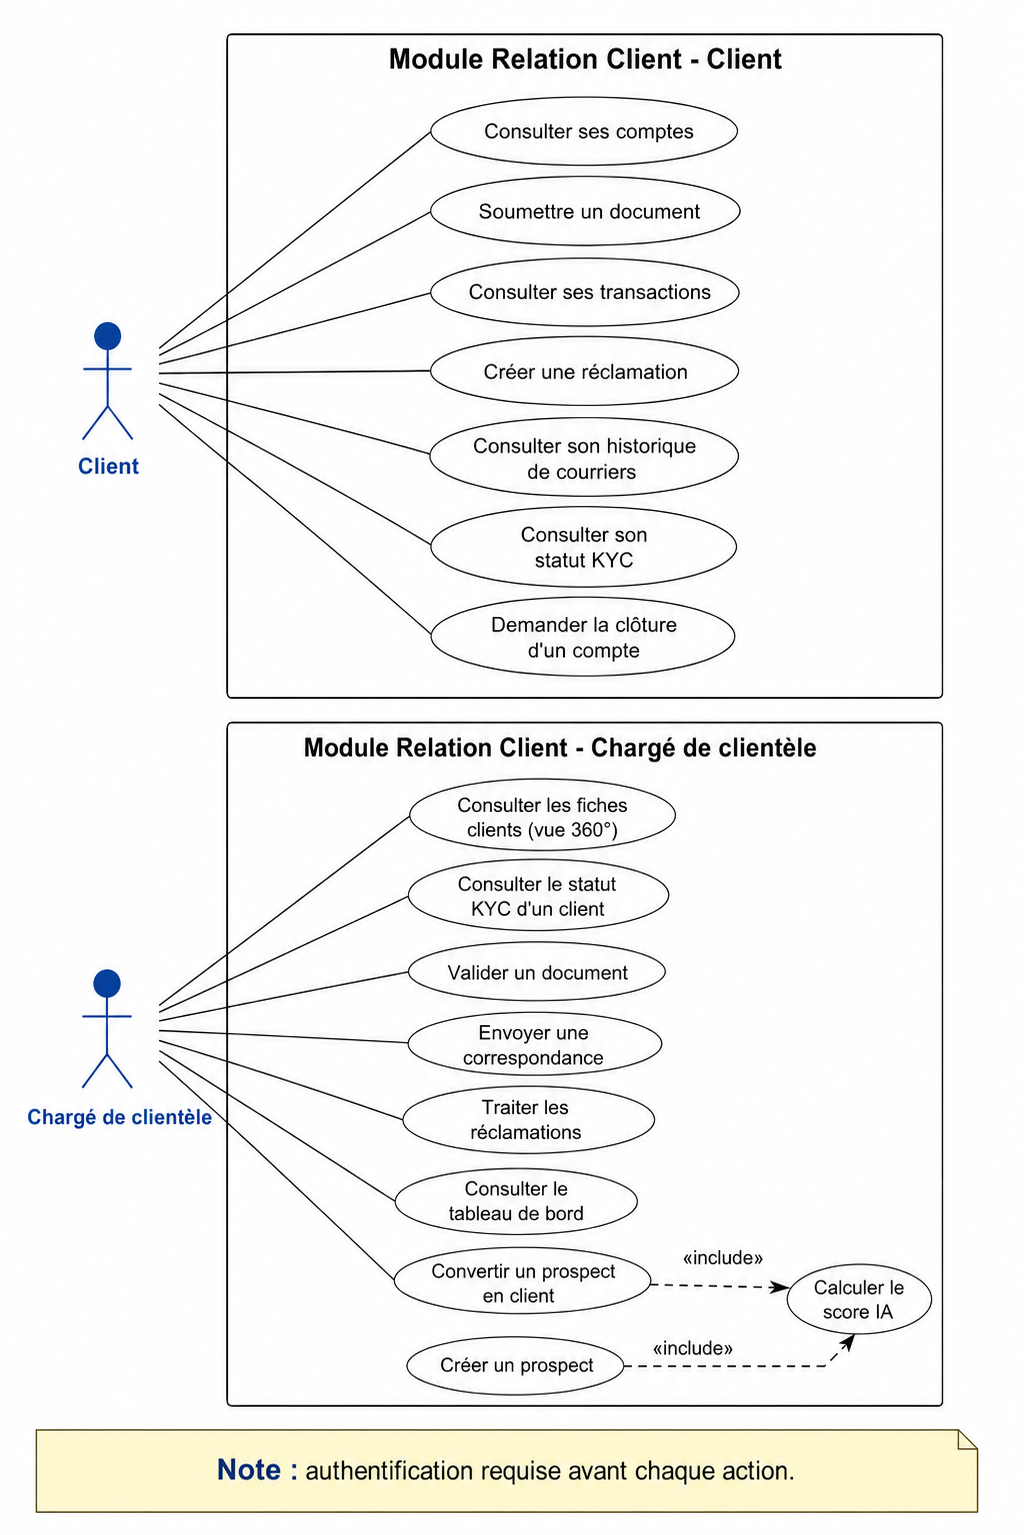
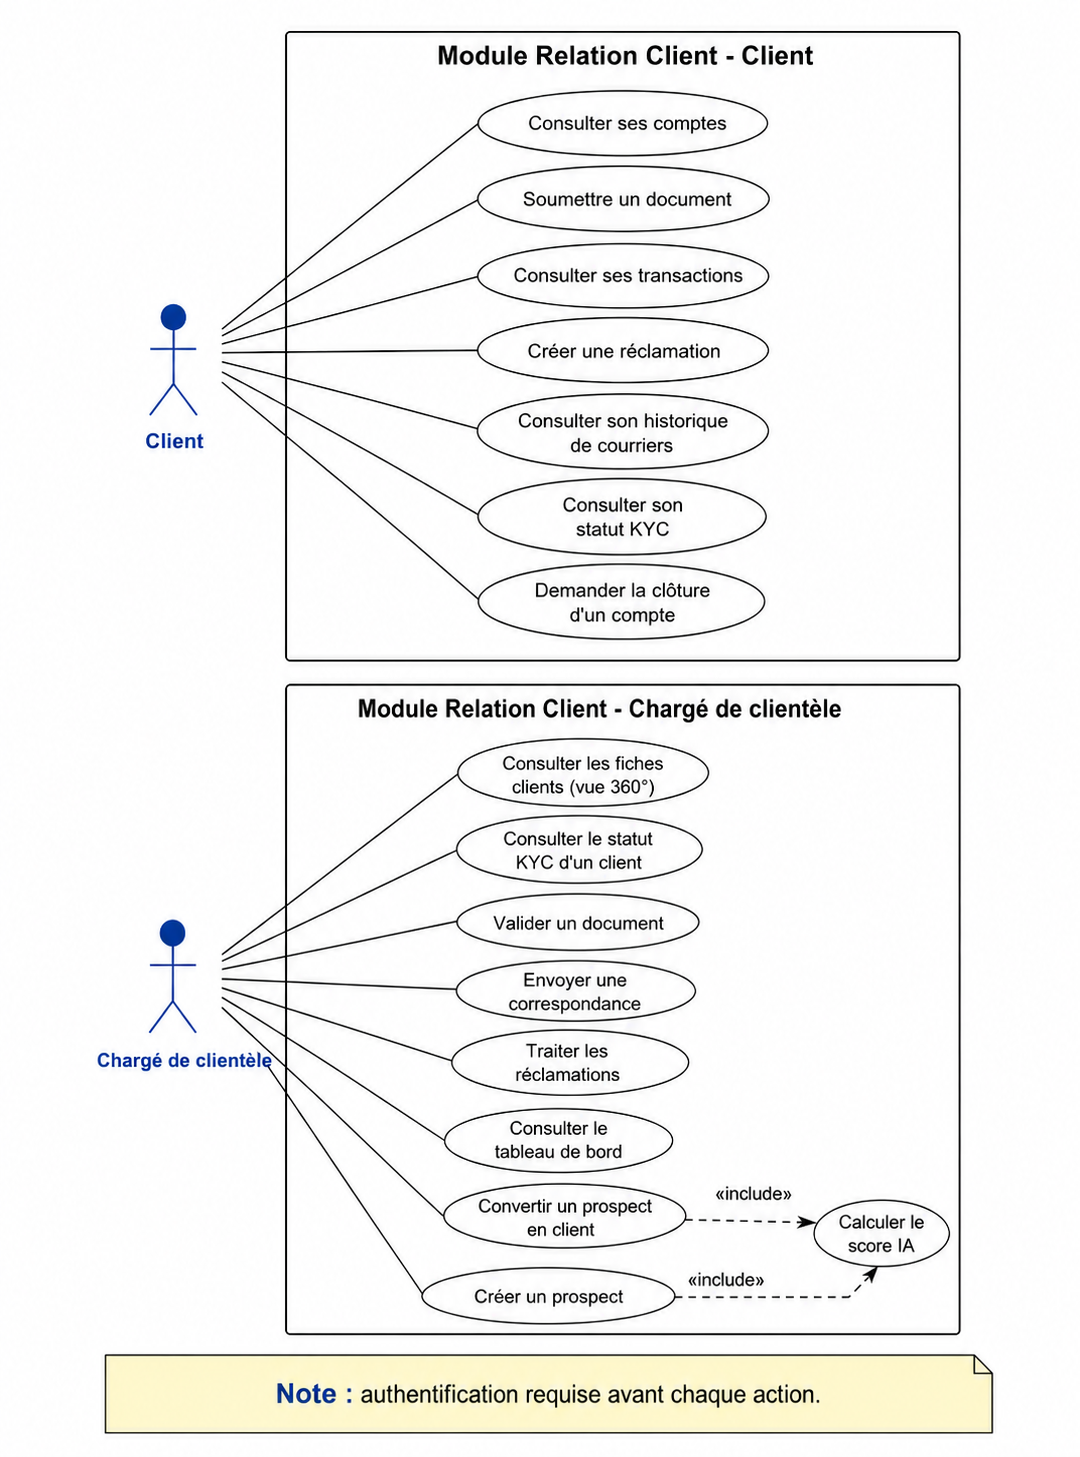
Mettre a jour le memoire final

diff --git a/contenu/conclusion-generale.tex b/contenu/conclusion-generale.tex
@@ -4,40 +4,41 @@
 \markboth{Conclusion générale}{Conclusion générale}
 
 Ce mémoire avait pour objectif de concevoir et de réaliser une solution bancaire
-intelligente capable de rapprocher la gestion de la relation client et les services
-d'investissement. À travers la plateforme \textbf{I-SIB}, le travail réalisé a
-cherché à proposer une solution modulaire, sécurisée et évolutive, adaptée aux
-besoins d'un environnement bancaire moderne.
+intelligente centrée sur deux volets complémentaires : la gestion de la relation
+client et les services d'investissement. À travers la plateforme \textbf{I-SIB},
+le travail mené a permis de proposer une base applicative modulaire, sécurisée
+et évolutive, adaptée à un contexte bancaire où la centralisation des
+informations et la continuité des parcours deviennent essentielles.
 
-La démarche adoptée a permis d'analyser les besoins, de définir les exigences
-fonctionnelles et non fonctionnelles, puis de concevoir une architecture fondée
-sur des microservices, une passerelle API, des services métier spécialisés et des
-mécanismes de sécurité et de traçabilité. Afin de garder une étude maîtrisée,
-l'analyse détaillée s'est concentrée sur deux fonctionnalités représentatives :
-la gestion des prospects et le passage d'ordres.
+La démarche suivie a d'abord consisté à analyser les besoins, à identifier les
+acteurs et à préciser les exigences fonctionnelles et non fonctionnelles. Elle
+a ensuite conduit à la conception d'une architecture microservices organisée
+autour d'une passerelle API, de services métier spécialisés, de composants de
+sécurité et de mécanismes de traçabilité. Pour garder une étude lisible et
+maîtrisée, la conception détaillée s'est concentrée sur deux scénarios
+représentatifs : la création d'un prospect et le passage d'ordres.
 
-Les résultats obtenus mettent en évidence une couverture fonctionnelle du
-périmètre réalisé. Le module Relation Client centralise les informations client, facilite
-le suivi des prospects, intègre le scoring et la détection du churn. Le module
-SGI permet la consultation des portefeuilles, le suivi des cotations BRVM,
-l'analyse des titres et le suivi des opérations d'investissement. Ces résultats
-montrent l'intérêt d'une plateforme unifiée pour améliorer la continuité entre
-les parcours commerciaux, bancaires et d'investissement. La plateforme réalisée
-a également été déployée dans un environnement de validation sur un VPS
-AlmaLinux, où les évolutions peuvent être testées progressivement après
-redéploiement.
+Les résultats obtenus couvrent le périmètre fonctionnel réalisé. Le module
+Relation Client permet de centraliser les informations utiles au suivi
+commercial, de gérer les prospects et d'exploiter des indicateurs d'aide au
+suivi, notamment autour du scoring et du risque de départ. Le module SGI permet
+la consultation des portefeuilles, des instruments BRVM et des informations
+nécessaires à la préparation des opérations d'investissement. La plateforme a
+également été déployée dans un environnement de validation sur un VPS
+AlmaLinux, avec une organisation basée sur Docker et Docker Compose afin de
+tester progressivement les services réalisés.
 
-Certaines limites demeurent cependant : les cotations BRVM restent simulées, les
-modèles d'IA devront être améliorés avec des données réelles et les connexions
-avec tous les modules bancaires ne sont pas finalisées. Le passage de
-l'environnement de validation à la production nécessitera également davantage
-de tests, un audit de sécurité approfondi et une observabilité plus complète.
-Les perspectives portent donc sur l'intégration de flux de marché officiels,
-l'industrialisation de la production, la haute disponibilité et l'ouverture
-future vers le mobile ou le multilingue.
+Le travail réalisé reste toutefois à consolider avant une exploitation en
+production. Les données de marché utilisées pour les cotations BRVM sont encore
+simulées, les modèles d'intelligence artificielle devront être évalués avec des
+données réelles, et certaines connexions avec les autres modules bancaires
+restent à finaliser. Le passage en production nécessitera également des tests
+complémentaires, un audit de sécurité, une supervision renforcée, des
+sauvegardes et une stratégie de reprise clairement définie.
 
-En définitive, ce projet a permis de démontrer la faisabilité d'une plateforme
-unifiée combinant relation client, services d'investissement, architecture
-modulaire et intelligence artificielle. Il constitue une base solide pour la
-poursuite du développement d'I-SIB et son adaptation progressive aux besoins
-réels des institutions financières.
+En définitive, ce projet montre la faisabilité d'une plateforme bancaire
+unifiée associant relation client, services d'investissement, architecture
+modulaire et premiers mécanismes d'aide intelligente. I-SIB constitue ainsi une
+base de travail solide, appelée à évoluer progressivement vers une solution plus
+complète, mieux intégrée aux données réelles et adaptée aux besoins opérationnels
+des institutions financières.

diff --git a/contenu/chapitre-3.tex b/contenu/chapitre-3.tex
@@ -10,7 +10,7 @@
 
 Ce chapitre traduit les besoins identifiés au chapitre précédent en une solution
 structurée et implémentable. Il présente d'abord les principes retenus pour organiser
-la plateforme, puis l'architecture fonctionnelle d'I-SIB, les choix technologiques,
+la plateforme, puis l'architecture logique d'I-SIB, les choix technologiques,
 l'architecture technique, la conception détaillée de la fonctionnalité Gestion des
 prospects et enfin l'architecture de déploiement.
 
@@ -55,24 +55,24 @@ spécialisés qui communiquent entre eux de manière contrôlée \cite{fowler_mi
 
 La solution I-SIB repose sur une architecture microservices organisée en plusieurs couches. Les utilisateurs accèdent à la plateforme via deux interfaces web : un back-office pour les employés et un front-office pour les clients. Les requêtes passent par une passerelle API chargée du routage et du contrôle des accès, en lien avec le service d'authentification.
 
-L’architecture regroupe les interfaces utilisateur, les services métier ainsi que les composants techniques assurant la sécurité, le routage, le stockage des données, le cache, la messagerie et la traçabilité. La figure~\ref{fig:architecture_fonctionnelle} présente l’organisation fonctionnelle de ces composants et leurs interactions.
+L’architecture regroupe les interfaces utilisateur, les services métier ainsi que les composants techniques assurant la sécurité, le routage, le stockage des données, le cache, la messagerie et la traçabilité. La figure~\ref{fig:architecture_logique} présente l’organisation fonctionnelle de ces composants et leurs interactions.
 
 
 
 \begin{figure}[H]
     \centering
     \MemoireFigureLarge{images/contenu/chapitre-3/architecture_fonctionnelle.png}
-    \caption{Architecture fonctionnelle de la plateforme I-SIB}
-    \label{fig:architecture_fonctionnelle}
+    \caption{Architecture logique de la plateforme I-SIB}
+    \label{fig:architecture_logique}
 \end{figure}
 
-Comme le montre la figure~\ref{fig:architecture_fonctionnelle}, la passerelle API joue
+Comme le montre la figure~\ref{fig:architecture_logique}, la passerelle API joue
 un rôle central : elle constitue la frontière entre les applications web et les
 microservices internes. Les services métier restent ainsi isolés de tout accès
 direct depuis l'extérieur.
 \subsection{Description des blocs}
 
-La figure~\ref{fig:architecture_fonctionnelle} est organisée autour de plusieurs blocs
+La figure~\ref{fig:architecture_logique} est organisée autour de plusieurs blocs
 complémentaires, chacun correspondant à une responsabilité précise dans la plateforme.
 
 \begin{description}
@@ -121,7 +121,7 @@ complémentaires, chacun correspondant à une responsabilité précise dans la p
 
 \section{Choix des outils et technologies}
 
-Les choix technologiques traduisent l'architecture fonctionnelle en composants
+Les choix technologiques traduisent l'architecture logique en composants
 réalisables. Ils ont été retenus en fonction des responsabilités à couvrir :
 interfaces web, services backend, sécurité, routage, persistance des données,
 messagerie, cache, stockage documentaire, traçabilité et déploiement. Cette section
@@ -185,7 +185,7 @@ et les composants applicatifs.
 % ─────────────────────────────────────────────────
 \section{Conception détaillée}
 
-Après la présentation des architectures fonctionnelle et technique, cette section détaille
+Après la présentation des architectures logique et technique, cette section détaille
 le fonctionnement interne d'un scénario représentatif du module Relation Client :
 \textbf{la création d'un prospect}. Ce choix permet d'illustrer, de manière ciblée,
 le cheminement d'une demande depuis l'interface back-office jusqu'aux services backend,
@@ -269,11 +269,10 @@ Compose, les réseaux de conteneurs et le principe de redéploiement progressif.
 
 Le déploiement est structuré en quatre ensembles : \texttt{infra},
 \texttt{core}, \texttt{module} et \texttt{office}. Ce découpage reste aligné
-avec Docker Compose en local \cite{docker_compose_docs}, tandis que l'exécution
-sur le VPS s'appuie sur Podman \cite{podman_docs} et Podman Compose
-\cite{podman_compose_docs}. Les quatre ensembles isolent respectivement les
-services communs, les référentiels, les modules métier et les interfaces
-utilisateur.
+avec Docker \cite{docker_docs} et Docker Compose \cite{docker_compose_docs},
+aussi bien en local que sur le VPS AlmaLinux utilisé pour la validation. Les
+quatre ensembles isolent respectivement les services communs, les référentiels,
+les modules métier et les interfaces utilisateur.
 
 Deux réseaux organisent les échanges. Le réseau \texttt{sib\_public} expose la
 passerelle API et les applications web, tandis que le réseau

diff --git a/annexes/references.tex b/annexes/references.tex
@@ -115,14 +115,6 @@ Disponible sur : \url{https://docs.docker.com/}. Consulté le 3 juin 2026.
 Docker Inc., \textit{Docker Compose Documentation}.
 Disponible sur : \url{https://docs.docker.com/compose/}. Consulté le 3 juin 2026.
 
-\bibitem{podman_docs}
-Podman, \textit{Podman Documentation}.
-Disponible sur : \url{https://docs.podman.io/}. Consulté le 3 juin 2026.
-
-\bibitem{podman_compose_docs}
-Podman, \textit{podman-compose Documentation}.
-Disponible sur : \url{https://docs.podman.io/en/latest/markdown/podman-compose.1.html}. Consulté le 3 juin 2026.
-
 \bibitem{jacobson_oose}
 I. Jacobson, M. Christerson, P. Jonsson et G. Övergaard, \textit{Object-Oriented Software Engineering: A Use Case Driven Approach}, Addison-Wesley, 1992.
 

diff --git a/contenu/chapitre-4.tex b/contenu/chapitre-4.tex
@@ -146,11 +146,7 @@ sécurité applicative \cite{owasp_asvs}.
     \item[IA à consolider.] Les scores associés aux prospects et les indicateurs
           de risque de départ devront être évalués sur des données réelles afin
           de confirmer leur pertinence métier.
-    \item[Contraintes de déploiement.] Docker \cite{docker_docs} et Docker Compose \cite{docker_compose_docs} restent les
-          références utilisées en local et dans l'organisation cible des
-          services. Sur le VPS AlmaLinux,
-          Podman \cite{podman_docs} et Podman Compose \cite{podman_compose_docs} ont été utilisés pendant les tests pour
-          répondre à des difficultés réseau propres à cet environnement.
+    \item[Industrialisation du déploiement.] Le déploiement de validation repose sur Docker \cite{docker_docs} et Docker Compose \cite{docker_compose_docs} sur le VPS AlmaLinux. Cette base reste à compléter par une supervision renforcée, des sauvegardes et une stratégie de reprise avant la production.
 \end{description}
 
 \subsection{Perspectives d'amélioration}

diff --git a/contenu/chapitre-2.tex b/contenu/chapitre-2.tex
@@ -246,7 +246,7 @@ travers un diagramme de séquence.
 \clearpage
 \begin{figure}[H]
     \centering
-    \MemoireFigureLarge{images/contenu/chapitre-2/sgi_seq_passage_ordres.png}
+    \MemoireFigureBox{width=\linewidth,keepaspectratio}{0.98\textwidth}{images/contenu/chapitre-2/sgi_seq_passage_ordres.png}
     \caption{Circuit de soumission et de traitement d'un ordre de bourse du client à l'exécution}
     \label{fig:sgi_ordres}
 \end{figure}